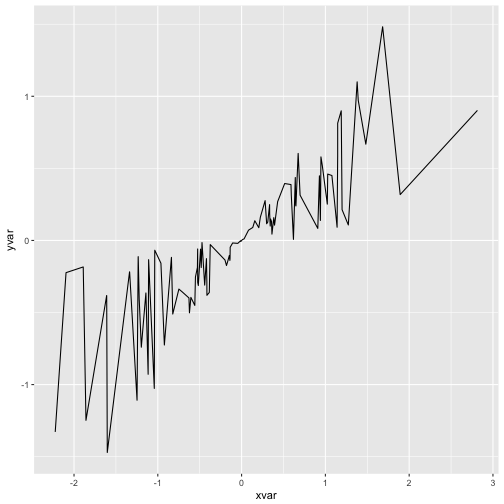
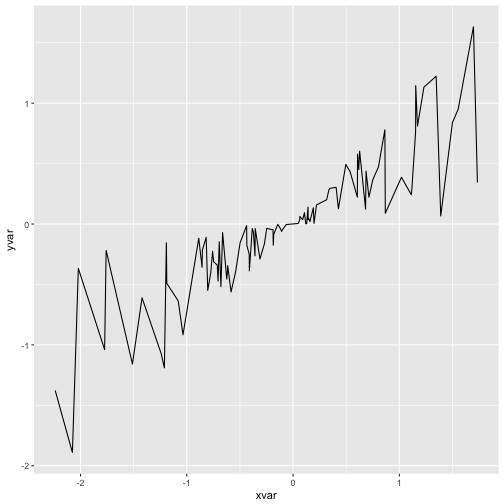
Preflight update

diff --git a/datavis_ggplot2.html b/datavis_ggplot2.html
@@ -52,6 +52,8 @@ We will understand how:
 1. General overview of key concepts: `aesthetics`, `geoms`, layering, `scales`, `facets`, `themes`
 1. "Cookbook" approach to demonstrate details
 
+**Note**: This is not an exhaustive tutorial; it is an overview of the features I use most often. Much more at `ggplot2.tidyverse.org`!
+
 ---
 
 # The Grammar of Graphics
@@ -183,9 +185,9 @@ print(head(df, n = 3), digits = 2)
 
 ```
 ##    xvar  yvar
-## 1  1.15  0.58
-## 2 -0.96 -0.16
-## 3  1.38  1.10
+## 1  1.23  1.13
+## 2 -0.19 -0.18
+## 3  0.34  0.28
 ```
 
 
@@ -205,9 +207,9 @@ print(head(df, n = 3), digits = 2)
 
 ```
 ##    xvar  yvar
-## 1  1.15  0.58
-## 2 -0.96 -0.16
-## 3  1.38  1.10
+## 1  1.23  1.13
+## 2 -0.19 -0.18
+## 3  0.34  0.28
 ```
 
 
@@ -909,7 +911,108 @@ ggplot(
 
 ---
 
+# Types of `scales`
 
+**Scales** generally correspond to **aesthetics**. Some common scale types:
+
+- `scale_[x, y]_[continuous/discrete]`
+- `scale_[colour, fill]_[many options!]`
+- `scale_size_...`, `scale_shape_...`, `scale_alpha_...`
+
+This is *not* an exhaustive list. See the [`ggplot2` reference pages](http://ggplot2.tidyverse.org/reference/index.html) for more options.
+
+*Note: For `color` scales and aesthetics, you can use either `color` or `colour`.*
+
+--
+
+`scales` have intelligent default values, but you can use different scale types to use specific values you choose. Examples:
+
+- A particular color palette
+- Beginning and ending sizes (maybe you want the smallest size to still be seen on a projector)
+- Breaks on X, Y axes at clinically relevant points
+
+---
+
+# Your Turn!
+
+Using the boxplot we made earlier, use `scales` *(and maybe `aesthetics`)* to
+
+1. Change the name of the X axis
+1. Make each country's raw data a different color
+1. *Not* include a legend
+
+`?scale_x_discrete`
+
+`?scale_color_hue`
+
+--
+
+.pull-left[
+
+```r
+ggplot(
+  data = gap2007,
+  aes(x = continent, y = gdpPercap)
+) +
+  geom_boxplot(outlier.shape = NA) +
+  geom_point(
+*   aes(color = continent),
+    position =
+      position_jitter(width = 0.2),
+    alpha = 0.6
+  ) +
+* scale_x_discrete(name="Continent") +
+* scale_color_hue(guide = FALSE)
+```
+]
+
+.pull-right[
+![](datavis_ggplot2_files/figure-html/unnamed-chunk-43-1.png)&lt;!-- --&gt;
+]
+
+---
+
+class: inverse, middle, center
+
+# 🔠 Same Concept, Many `facets` 🔢
+
+We can use `facets` to show the same visualization for related groups.
+
+---
+
+# Example: GDP vs Life Expectancy
+
+
+```r
+ggplot(data = gap2007, aes(x = gdpPercap, y = lifeExp)) +
+* facet_wrap(~ continent) +
+  geom_point() +
+  geom_smooth()
+```
+
+![](datavis_ggplot2_files/figure-html/unnamed-chunk-44-1.png)&lt;!-- --&gt;
+---
+
+.pull-left[
+## `facet_wrap()`
+
+You have **one** categorical variable
+]
+
+.pull-right[
+## `facet_grid()`
+
+You have **two** categorical variables, want to show each combination
+]
+
+&lt;hr&gt;
+
+Both have these arguments (among others):
+
+- `nrow`, `ncol`: if you want a specific layout
+- `scales`
+    - `fixed`: default; same for every panel
+    - `free_y`, `free_x`, `free`: allow X and/or Y axis to change for each panel
 
 ---
 
@@ -944,7 +1047,7 @@ ggplot(
 ]
 
 .pull-right[
-![](datavis_ggplot2_files/figure-html/unnamed-chunk-43-1.png)&lt;!-- --&gt;
+![](datavis_ggplot2_files/figure-html/unnamed-chunk-46-1.png)&lt;!-- --&gt;
 ]
     </textarea>
 <script src="libs/remark-latest.min.js"></script>
